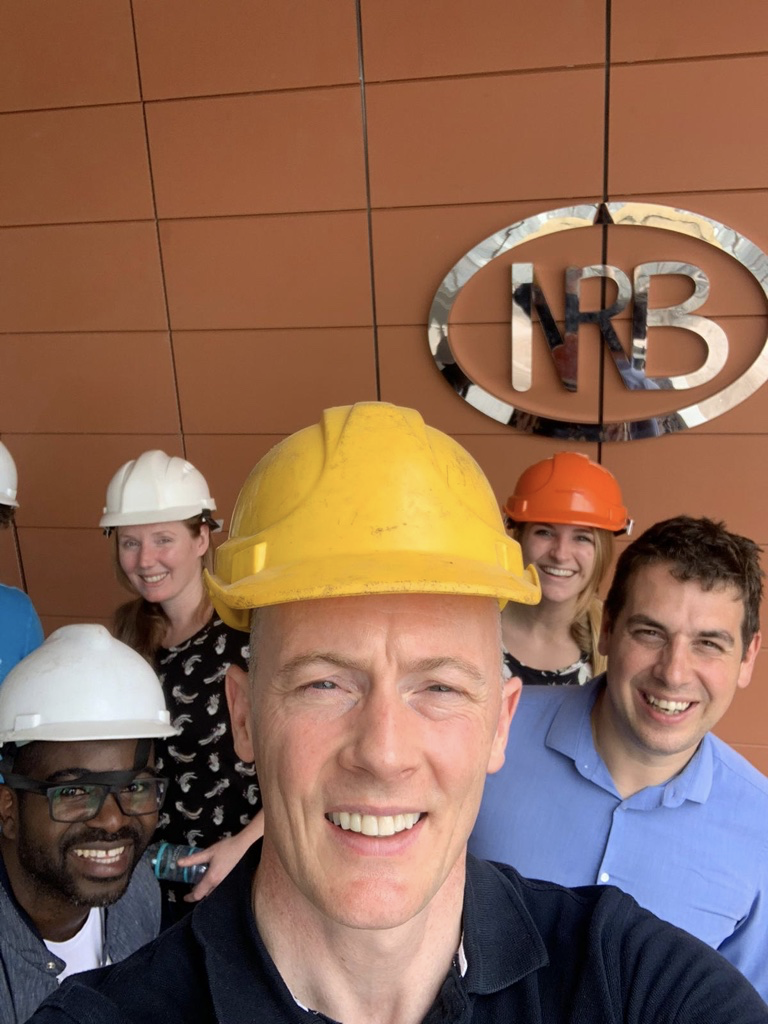
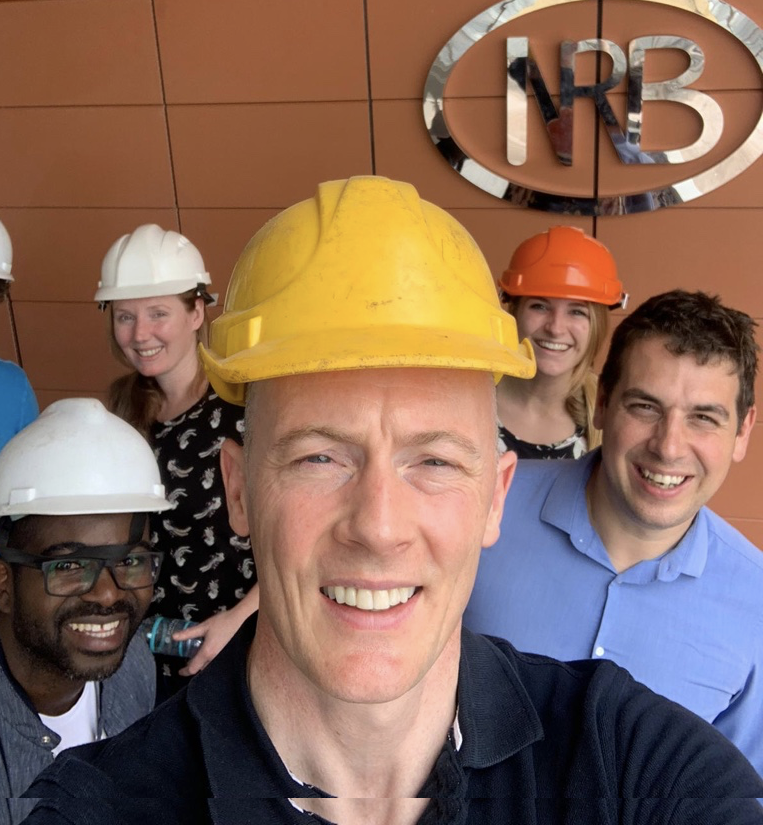
fixing ian image format

diff --git a/_people/2019-11-22-ian-goodfellow.md b/_people/2019-11-22-ian-goodfellow.md
@@ -2,7 +2,7 @@
 layout: post
 title: Ian Goodfellow
 description: University of Cambridge
-image: assets/images/ian-goodfellow.jpg
+image: assets/images/ian-goodfellow.png
 link: https://www.path.cam.ac.uk/directory/ian-goodfellow
 show_tile: false
 ---
